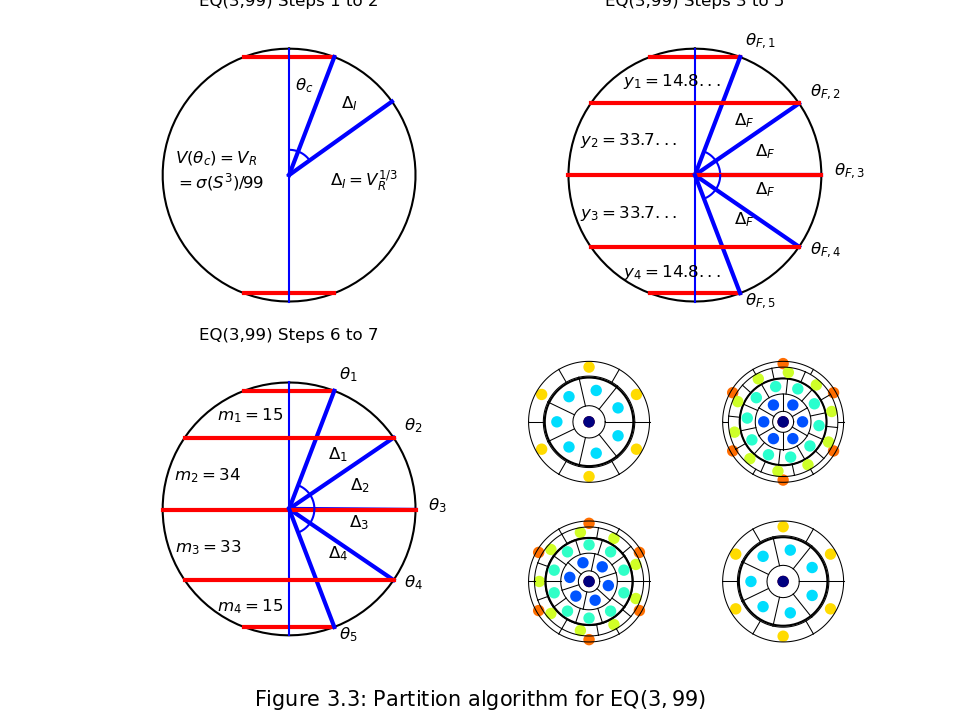
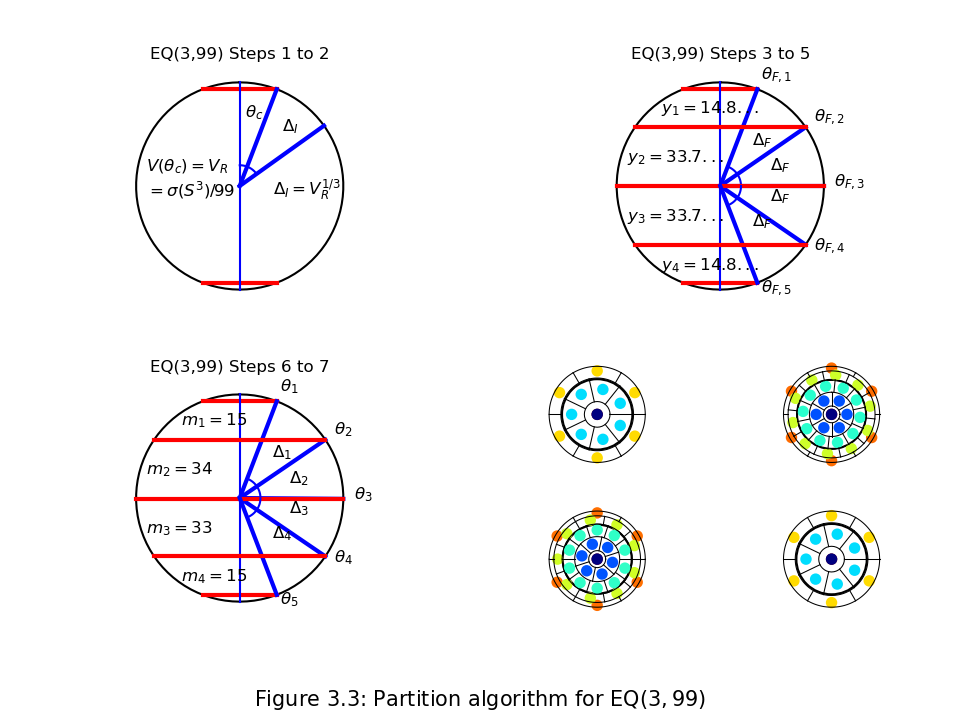
Improve examples

diff --git a/examples/phd-thesis/regenerate_figures.py b/examples/phd-thesis/regenerate_figures.py
@@ -66,19 +66,30 @@ def run_one_script(script, config, args):
     python_exe = sys.executable
     mode_label = "[2D]"
     if needs_3d:
-        if not config["venv_python"].exists():
-            msg = (
-                f"{script.name:40s} : FAILED "
-                f"(venv_sys not found at {config['venv_python']})"
-            )
-            print(msg)
-            return "fail"
-        python_exe = str(config["venv_python"])
-        run_env.update(QT_ENV)
-        mode_label = "[3D]"
+        if config["venv_python"].exists():
+            python_exe = str(config["venv_python"])
+            run_env.update(QT_ENV)
+            mode_label = "[3D] (venv_sys)"
+        else:
+            # Fallback to current interpreter if it has mayavi
+            try:
+                subprocess.run(
+                    [sys.executable, "-c", "import mayavi"],
+                    capture_output=True,
+                    check=True,
+                )
+                mode_label = "[3D] (sys)"
+                run_env.update(QT_ENV)
+            except subprocess.CalledProcessError:
+                msg = (
+                    f"{script.name:40s} : FAILED "
+                    f"(venv_sys not found and mayavi unavailable in sys)"
+                )
+                print(msg)
+                return "fail"
 
     print(f"Running {mode_label} {script.name}...", end="", flush=True)
-    cmd = [python_exe, str(config["run_patched"]), str(script)]
+    cmd = [python_exe, str(script)]
     if args.show_progress:
         cmd.append("--show-progress")
 
@@ -172,8 +183,9 @@ def main():
     config = {
         "results_dir": base_dir / "results",
         "project_root": base_dir.parent.parent,
-        "venv_python": base_dir.parent.parent / "venv_sys" / "bin" / "python3",
-        "run_patched": base_dir / "src" / "run_patched.py",
+        "venv_python": (
+            base_dir.parent.parent / ".venvs" / ".venv_sys" / "bin" / "python3"
+        ),
     }
     config["results_dir"].mkdir(parents=True, exist_ok=True)
 

diff --git a/examples/phd-thesis/src/fig_4_10_eqp_voronoi_s2_33.py b/examples/phd-thesis/src/fig_4_10_eqp_voronoi_s2_33.py
@@ -114,6 +114,13 @@ def main():
     fig_overlay, ax = plt.subplots(figsize=(9, 9), dpi=100)
     ax.imshow(img)
     ax.axis("off")
+    # Increase the size of the 3D portion by 50% (1.5x zoom)
+    h, w = img.shape[:2]
+    zoom = 1.5
+    h_new, w_new = h / zoom, w / zoom
+    dy, dx = (h - h_new) / 2, (w - w_new) / 2
+    ax.set_ylim(h - dy, dy)
+    ax.set_xlim(dx, w - dx)
     title_text = (
         r"Figure 4.10: EQ points and Voronoi cells on $S^2$ for $\mathrm{EQP}(2,33)$"
     )
@@ -128,7 +135,6 @@ def main():
         os.remove(raw_file)
     if args.show_progress:
         print("Saved fig_4_10_eqp_voronoi_s2_33.png")
-    mlab.show()
 
 
 if __name__ == "__main__":

diff --git a/examples/phd-thesis/src/fig_3_1_partition_s2_33.py b/examples/phd-thesis/src/fig_3_1_partition_s2_33.py
@@ -43,6 +43,13 @@ def main():
     fig_overlay, ax = plt.subplots(figsize=(8, 8), dpi=100)
     ax.imshow(img)
     ax.axis("off")
+    # Increase the size of the 3D portion by 50% (1.5x zoom)
+    h, w = img.shape[:2]
+    zoom = 1.5
+    h_new, w_new = h / zoom, w / zoom
+    dy, dx = (h - h_new) / 2, (w - w_new) / 2
+    ax.set_ylim(h - dy, dy)
+    ax.set_xlim(dx, w - dx)
     title_text = r"Figure 3.1: Partition $\mathrm{EQ}(2,33)$"
     # Add title at bottom center
     fig_overlay.text(0.5, 0.05, title_text, ha="center", fontsize=12)

diff --git a/examples/phd-thesis/src/fig_4_1_eqp_s2_33.py b/examples/phd-thesis/src/fig_4_1_eqp_s2_33.py
@@ -45,6 +45,13 @@ def main():
     fig_overlay, ax = plt.subplots(figsize=(8, 8), dpi=100)
     ax.imshow(img)
     ax.axis("off")
+    # Increase the size of the 3D portion by 50% (1.5x zoom)
+    h, w = img.shape[:2]
+    zoom = 1.5
+    h_new, w_new = h / zoom, w / zoom
+    dy, dx = (h - h_new) / 2, (w - w_new) / 2
+    ax.set_ylim(h - dy, dy)
+    ax.set_xlim(dx, w - dx)
     title_text = (
         r"Figure 4.1: EQ code $\mathrm{EQP}(2,33)$, showing the "
         r"partition $\mathrm{EQ}(2,33)$"

diff --git a/examples/phd-thesis/src/fig_3_3_algorithm_s3_99.py b/examples/phd-thesis/src/fig_3_3_algorithm_s3_99.py
@@ -35,7 +35,8 @@ def main():
         ha="center",
         fontsize=10,
     )
-    plt.subplots_adjust(bottom=0.1, top=0.95)
+    plt.tight_layout()
+    plt.subplots_adjust(bottom=0.15, top=0.90)
     plt.savefig("fig_3_3_algorithm_s3_99.png", dpi=150)
     if args.show_progress:
         print("Saved fig_3_3_algorithm_s3_99.png")

diff --git a/examples/phd-thesis/src/README.md b/examples/phd-thesis/src/README.md
@@ -6,4 +6,4 @@ This directory contains Python scripts that reproduce the computationally genera
 
 Detailed documentation for these scripts, including usage instructions and mapping to thesis figures, can be found in the main documentation:
 
-[**Thesis Example Reproductions**](../doc/thesis-examples.md)
+[**Thesis Example Reproductions**](../../../doc/phd-thesis-examples.md)
